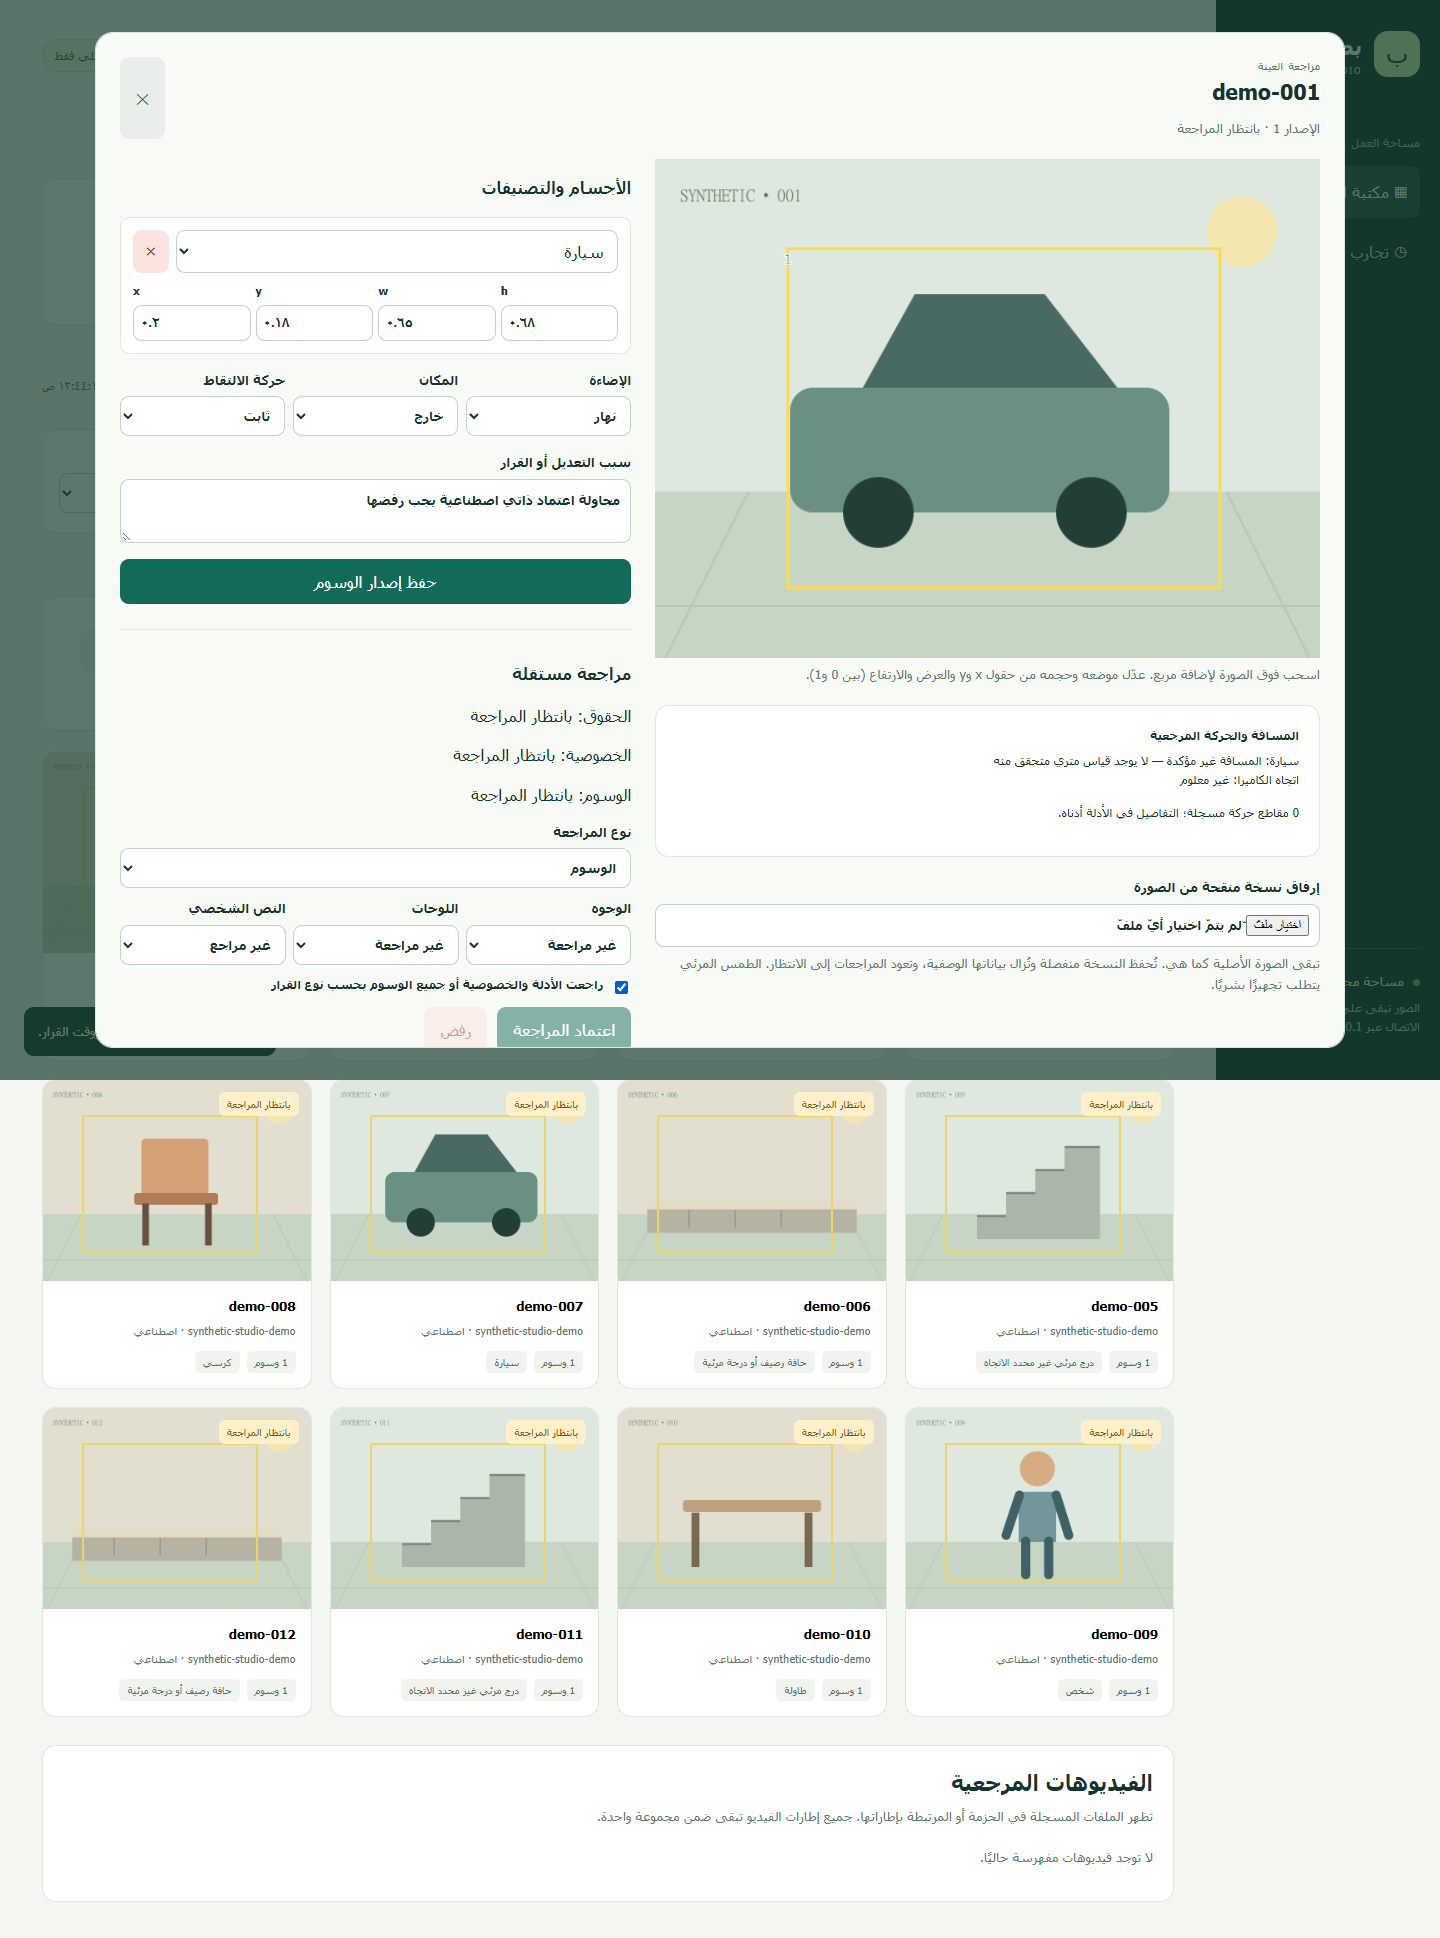
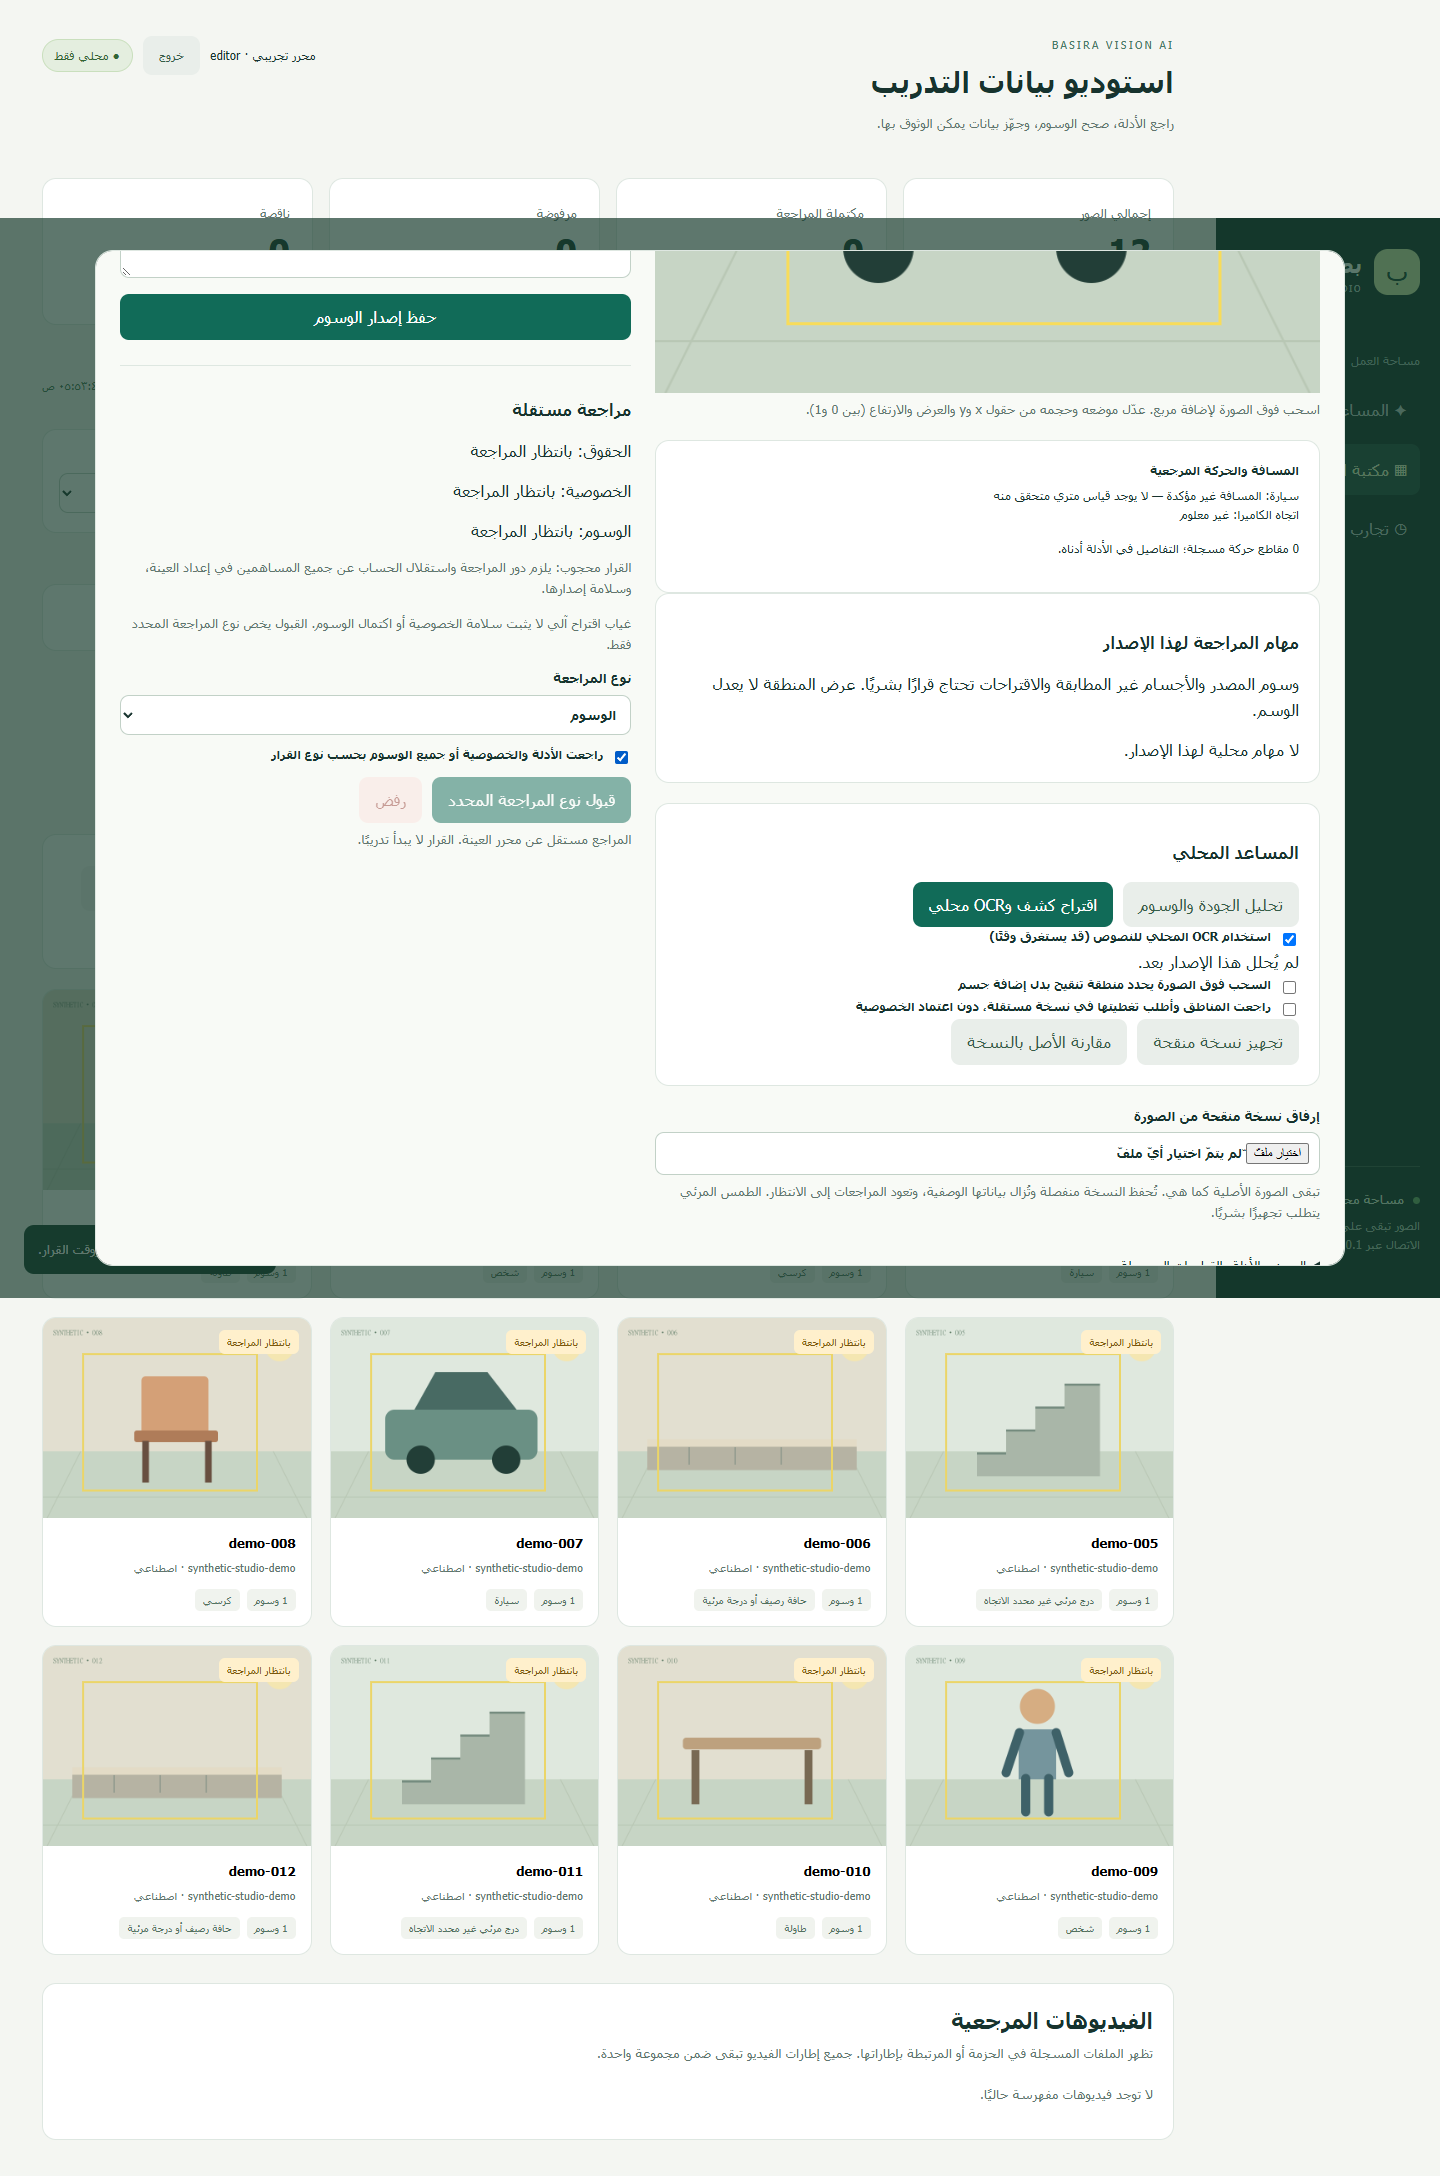
feat(vision-studio): guide independent final cohort review

diff --git a/scripts/vision-ai/studio/ui/index.html b/scripts/vision-ai/studio/ui/index.html
@@ -126,6 +126,14 @@
           </div>
           <p id="content-counts" class="muted"></p>
           <p id="review-plan-note" class="panel"></p>
+          <button id="start-final-review" class="primary">
+            بدء المراجعة النهائية صورة تلو الأخرى
+          </button>
+          <p class="muted">
+            تستخدم المراجعة التصفية وترتيب الأولوية الحاليين. لكل صورة قرارات
+            منفصلة للحقوق والخصوصية والوسوم، مع سبب وهوية ووقت. الانتقال لا يحفظ
+            قرارًا.
+          </p>
           <p class="muted">
             مرشح فئة الجمع يدخل في التصفية فقط؛ لا يعد وسمًا معتمدًا، ولا يدخل
             في أعداد الصناديق.
@@ -291,6 +299,13 @@
           ✕
         </button>
       </div>
+      <nav class="review-navigation panel" aria-label="التنقل في مراجعة الصور">
+        <button id="review-previous" class="quiet">
+          الصورة السابقة دون حفظ
+        </button>
+        <span id="review-position" role="status"></span>
+        <button id="review-next" class="quiet">الصورة التالية دون حفظ</button>
+      </nav>
       <div class="editor-layout">
         <div>
           <div id="stage" class="stage">
@@ -420,6 +435,8 @@
           <section class="review-panel">
             <h3>مراجعة مستقلة</h3>
             <div id="review-status"></div>
+            <p id="review-eligibility" class="muted"></p>
+            <p id="review-blockers" class="muted"></p>
             <label
               >نوع المراجعة<select id="review-kind">
                 <option value="rights">الحقوق والمصدر</option>
@@ -453,7 +470,8 @@
               والخصوصية أو جميع الوسوم بحسب نوع القرار</label
             >
             <div class="button-row">
-              <button id="approve" class="primary">اعتماد المراجعة</button
+              <button id="approve" class="primary">
+                قبول نوع المراجعة المحدد</button
               ><button id="reject" class="danger">رفض</button>
             </div>
             <p class="muted">

diff --git a/scripts/vision-ai/studio/ui/styles.css b/scripts/vision-ai/studio/ui/styles.css
@@ -774,3 +774,10 @@ summary {
 .snapshot label {
   max-width: 100%;
 }
+.review-navigation {
+  display: flex;
+  align-items: center;
+  justify-content: space-between;
+  gap: 12px;
+  flex-wrap: wrap;
+}

diff --git a/docs/vision-first-cohort-readiness.md b/docs/vision-first-cohort-readiness.md
@@ -1,0 +1,53 @@
+# Final review and first experiment readiness
+
+This extends the existing Studio on Draft PR #41. It does not train, change the operational EfficientDet engine, approve data, or publish media.
+
+## Owner review
+
+Start Studio using [the existing Windows instructions](../ml/vision/STUDIO.md). The owner may use one real local account with `rights,privacy,labels` roles for work prepared by others. Do not create aliases to bypass independence. An owner who edits a sample becomes a contributor and needs a different human reviewer for that sample.
+
+Filter the library, then choose **بدء المراجعة النهائية صورة تلو الأخرى**. The sequence captures the current filter and priority order. Previous/next explicitly discard unsaved form entries and record no decision. New imports appear in the gallery; restart the sequence to include them. Saving a decision stays on the same image so the other review gates can be considered. There is no combined approval or automatic advance.
+
+For each image, inspect the original and active derivative, source evidence, all source objects (including unmatched objects), proposed boxes, and privacy context. Choose rights, privacy, or labels; enter a reason, confirm actual review, then accept or reject that gate. Privacy selectors and confirmation reset between images. Absence of a detector/OCR proposal does not prove privacy clearance. Server checks roles, every contributor in the revision history, current version, hashes, evidence, and the existing per-gate requirements. UI eligibility is advisory; the write endpoint enforces the rules again.
+
+Incomplete scene conditions and non-exhaustive annotation remain blockers. A preparer must finish these before independent label approval. A still photo cannot establish camera motion; do not guess `static` merely to pass a validator. The current schema cannot express unknown motion in a released sample, so uncertain capture conditions require source evidence or separate exclusion from the first release. Do not relax this gate during owner review.
+
+EXIF orientation normalization uses the existing derivative action with an explicit `normalizeOrientation` option, reading the original locally and keeping it unchanged. It is restricted to stills without object/surface labels or motion records. Labelled or calibrated geometry must go through a new intake and reviewed transformation. Metadata stripping is not visible privacy redaction or approval.
+
+## Independent comparison protocol — draft requiring approval
+
+1. Define a first **four-class smoke experiment** (person, chair, table, car). Do not claim training all 35 classes or improving navigation from a small cohort. Ground hazards need their own sufficient real annotation and evaluation coverage. Synthetic data stays separate and is currently rejected by the existing real-data release/export gate.
+2. Complete source rights (photos, annotations and pretrained weights separately), privacy, exhaustive boxes, class definitions, coordinate conventions, capture conditions and contributor independence. Review RDD D00/D10/D20 as cracks and D40 as potholes; RDD is not a staircase source. Three Commons stair candidates are a separate source and need independent box correction. Preserve source XML and per-file attribution evidence.
+3. Build groups from original ID, photographer, location, capture session, video, near-duplicate and derivative families. Unknown related sessions stay together conservatively; filename gaps do not prove independence. Two related synthetic candidate pairs are not evidence of real cross-split leakage. Their whole simulation session remains outside real evaluation and distance calibration.
+4. **No test is frozen yet.** The existing pilot has already been inspected by assistants. Use it for preparation/smoke/validation; obtain new real scenes from independent sessions for a credible unseen final test. A human custodian chooses eligible grouped splits before any training and seals a manifest with hashes for original/active media, annotations, rights, group IDs, taxonomy and approvals using existing split/lock tools. Keep sealed test media/labels out of the training workspace, assistant analysis and experiment-selection prompts. An export hash is not an access-control boundary; lock verification may read hashes, but test inference/labels must not drive training or tuning.
+5. Pre-register seed, checkpoint/config hashes, four-class mapping, score/NMS/max detection settings, primary metrics and deployment acceptance criteria before the custodian evaluates. The existing `train.py` uses train/validation exports; never copy test samples into those exports. Tune only train/validation. Record all attempts and selected checkpoint by validation results. Small coverage with no positive examples yields `not evaluable`, never a claimed zero-error result.
[1 lines of base64/hex data omitted]
+7. Measure browser/phone FPS, p50/p95 latency, memory, thermal and energy behavior with device/browser versions, warmup and duration recorded. Detection accuracy does not establish metric distance, user travel direction, tracking quality or collision prediction. No proximity claim without independent measured/calibrated evidence.
+8. Let the custodian run the final test after model/config freeze. If test results inform changes, retire it as a development set and obtain a new unseen final test. Keep signed/manual decision records, model and report SHA-256, existing registry rollback, explicit deployment approval. Neither a GPU smoke run nor better pilot scores authorizes replacing the current engine.
+
+## Compute planning (checked 2026-10-15; no resources requested)
+
+Candidate: existing SSDLite320 MobileNetV3 Large transfer-learning pipeline, isolated Python 3.11, pinned torch 2.7.1/torchvision 0.22.1 CUDA build, approved local checkpoint and SHA. Current environment is CPU-only and does not satisfy those pins. Start with batch 4, 320 input, 5 epochs after approval. Allow 16–24 GB VRAM, 32 GB RAM and 100 GB private SSD for setup/headroom; this is a planning allocation, not measured minimum consumption.
+
+Budget a **2–4 billed-hour window** for environment setup, preflight, a tiny smoke run and export verification; no training-time measurement exists. Public on-demand quotes below are USD, before tax, storage/transfer/idle fees and regional availability. Recheck the actual private instance quote and CUDA compatibility before owner payment approval.
+
+| Option                                  | Published compute rate | 2–4 hour compute allowance | Notes                                                               |
+| --------------------------------------- | ---------------------- | -------------------------- | ------------------------------------------------------------------- |
+| Existing local NVIDIA GPU, if available | No rental              | Electricity only, unpriced | No suitable local GPU has been confirmed                            |
+| Runpod RTX A5000 24 GB                  | $0.27/hour             | $0.54–$1.08                | Listed host RAM is 25 GB; verify/choose enough RAM and privacy tier |
+| Runpod L4 24 GB / 50 GB host RAM        | $0.59/hour             | $1.18–$2.36                | Planning option with RAM headroom                                   |
+| Lambda A10 24 GB                        | $1.29/hour             | $2.58–$5.16                | Check inventory/region and terms                                    |
+
+Primary quotes: [Runpod pricing](https://www.runpod.io/pricing), [Lambda pricing](https://lambda.ai/pricing). Runpod standard network storage below 1 TB is listed at $0.07/GB/month: retaining 100 GB for a month adds approximately $7. Persistent storage may be billed after compute stops. No account, paid instance, cloud upload or external image analysis has been initiated.
+
+## Real hazard acquisition routes
+
+Continue bounded per-file Commons discovery for stairs, curb steps, bollards/barriers and actual videos. Preserve imageinfo, original page, creator attribution, license text and retrieval hashes; stop on HTTP 429/403 rather than bypass restrictions. Declared CC BY allows commercial reuse subject to its conditions, but does not settle privacy, attribution completeness or every intended use: final approval remains independent. [Commons reuse guidance](https://commons.wikimedia.org/wiki/Commons:Reusing_content_outside_Wikimedia), [CC BY 4.0](https://creativecommons.org/licenses/by/4.0/).
+
+RDD2022 is useful for cracks/potholes only ([publisher repository](https://github.com/sekilab/RoadDamageDetector), [dataset](https://figshare.com/articles/dataset/_/21431547)). Expand only after verifying class/coordinate mappings, per-file source records and conservative country/session grouping. Bonn stairs has real RGB/depth examples but no explicit usable data license has been confirmed; do not ingest it yet. Dataset cards or search titles alone do not establish per-asset rights. Noncommercial or unresolved sources stay outside the training release.
+
+For a next acquisition batch request real ascent/descent stairs, curb drops and ramps, potholes, poles/barriers and flat-pavement/shadow hard negatives across distinct sessions, indoor/outdoor, day/night, occlusion and wet/low-light conditions. Real videos should retain timestamps, original codec/source rights and privacy review for **all frames and audio**, with camera/object motion distinguished. Apparent size, simulation and detector confidence never establish measured meters.
+
+## Validation and unresolved work
+
+Automated tests use synthetic fixtures only; they do not certify real labels or rights. A private, hash-bound preparation report records actual cohort counts and source checks outside Git. Owner acceptance decisions, all uncertain annotation/privacy cases, real hazard/video coverage, a genuinely independent sealed test, approved pretrained checkpoint, compatible GPU environment and explicit permission to train remain required. See the private progress report for current counts; repository documents contain no private media, OCR text or reviewer identities.

diff --git a/ml/vision/STUDIO.md b/ml/vision/STUDIO.md
@@ -1,5 +1,7 @@
 # Basira AI Training Studio
 
+المراجعة المتسلسلة والاشتراطات المتبقية وبروتوكول المقارنة وتقدير GPU موثقة في [دليل الجاهزية والمراجعة النهائية](../../docs/vision-first-cohort-readiness.md).
+
 المساعد المحلي للكشف وOCR والجودة والتشابه والتنقيح واستقبال الصور الاصطناعية موثق في [STUDIO-ASSISTANT.md](STUDIO-ASSISTANT.md). كل اقتراحاته تحتاج مراجعة بشرية مستقلة؛ لا توليد أو إرسال سحابي أو بدء تدريب.
 
 لوحة عربية RTL محلية لإدارة صور وإطارات وفيديوهات Basira-Vision-Datasets. تستخدم التصنيف ومدققات الحقوق والوسوم والمسافات ومسار الاستيراد القائم. الخادم منفصل عن تطبيق بصيرة، ولا يحتوي نقطة تشغيل تدريب أو نشر.
